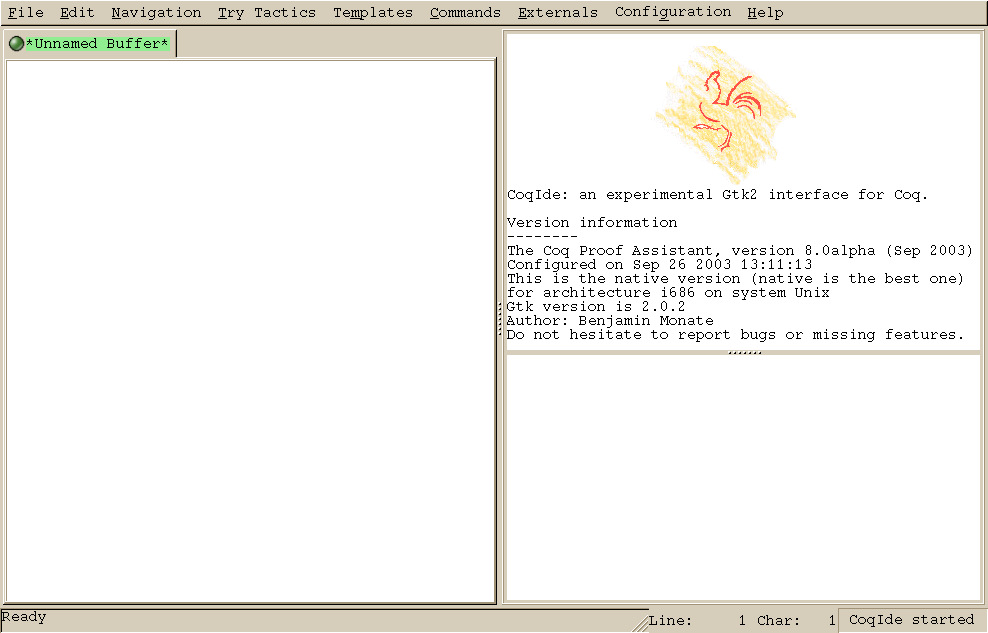
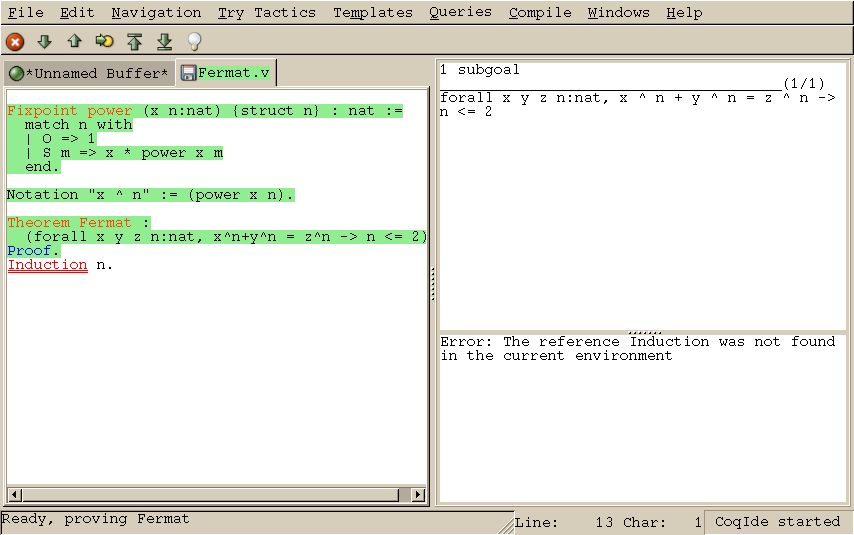
coqide
git-svn-id: svn://scm.gforge.inria.fr/svn/coq/trunk@8377 85f007b7-540e-0410-9357-904b9bb8a0f7

Changed region(s): [[0.0, 0.0, 1.0, 1.0], [0.9133, 0.1495, 0.9438, 0.1794], [0.6089, 0.6579, 0.6393, 0.6879]]

diff --git a/doc/RefMan-ide.tex b/doc/RefMan-ide.tex
@@ -27,59 +27,86 @@ obviously no meaning for \coqide{} being ignored.
 \label{fig:coqide}
 \end{figure}
 
-\coqide{} main screen is shown on Figure~\ref{fig:coqide}.  (Attention
-il manque la toolbar sur cet ecran car je l'ai enleve par defaut) At
-the top is a menu bar, the left window is displaying the various
-buffers, the upper right window is the ``goal window'', where goals to
-prove are displayed. The lower right window is the ``message window'',
+A sample \coqide{} main screen, while navigating into a file
+\verb|Fermat.v|, is shown on Figure~\ref{fig:coqide}.  At
+the top is a menu bar, and a tool bar below it. The large window on
+the left is displaying the various \emph{script buffers}. The upper right
+window is the \emph{goal window}, where goals to 
+prove are displayed. The lower right window is the \emph{message window},
 where various messages resulting from commands are displayed. At the
 bottom is the status bar.
 
-\section{The \texttt{File} menu}
+\section{Managing files and buffers}
 
-Open/Create
+In the script window, you may open arbitrarily many buffers to
+edit. The \emph{File} menu allows you to open files or create some,
+save them, print or export them into various formats. Among all these
+buffers, there is always one which is the current \emph{running
+  buffer}, whose name is displayed on a green background, which is the
+one where Coq commands are currently executed. 
 
-Save
+\section{Interactive navigation into \Coq{} scripts}
 
-Save as
+The running buffer is the one where navigation takes place. The
+toolbar proposes five basic commands for this. The first one,
+represented by a down arrow icon, is for going forward executing one
+command. If that command is successful, the part of the script that
+has been executed is displayed on a green background. If that command
+fails, the error message is displayed in the message window, and the
+location of the error is emphasized by a red underline.
 
-Save all
+On Figure~\ref{fig:coqide}, the running buffer is \verb|Fermat.v|, all
+commands until the \verb|Theorem| have been already executed, and the
+user tried to go forward executing \verb|Induction n|. That command
+failed because no such tactic exist (you remember that tactics in V8.0
+are lowercase, right ?), and the wrong word is underlined.
 
-Revert All Buffers
+Notice that the green part of the running buffer is not editable. If
+you ever want to modify something you have to go backward using the up
+arrow tool, or even better, put the cursor where you want to go back
+and use the \textsf{goto} button. Unlike with \verb|coqtop|, you
+should never use \verb|Undo| to go backward.
 
-Close Buffer
+Two additional tool buttons exist, one to go directly to the end and
+one to go back to the beginning. If you try to go to the end, or in
+general to run several commands using the \textsf{goto} button, the
+  execution will stop whenever an error is found.
 
-Print
+If you ever try to execute a long-running command, such as an
+\verb|intuition eauto with *|, and would like to abort it before its
+end, you may use the interrupt button, the red cross-like.
+ 
+Finally, notice that these navigation buttons are also available in
+the menu, where their keyboard shortcuts are given.
 
-Export to
+\section{Try tactics automatically}
 
-Rehighlight
+The menu \texttt{Try Tactics} provides some features for automatically
+trying to solve the current goal using simple tactics. If such a
+tactics succeeds in solving the goal, then its text is automatically
+inserted into the script. There is finally a combination of these
+tactics, called the \emph{proof wizard} which will try each of them in
+turn. This wizard is also available as a tool button, with a light
+bulb shape.  The set of tactics tried by the wizard is customizable in
+the preferences.
 
-Quit
+\section{Vernacular commands, templates}
 
-\section{The \texttt{Edit} menu}
+The \texttt{Templates} menu allows to use shortcuts to insert
+vernacular commands. This is a nice menu to use if you are not sure of
+the spelling of the command you want.
 
+Moreover, this menu offers some \emph{templates} which will automatic
+insert a complex command like Fixpoint with a convenient shape for its
+arguments. 
 
-\section{The \texttt{Navigation} menu}
+\section{Queries}
 
-Remplacer forward to et backward to par goto ?
-idem pour la toolbar
+\section{Compilation}
 
-\section{The \texttt{Try Tactics} menu}
+\section{Preferences}
 
-Is it useful ?
-
-\section{The \texttt{Templates} menu}
-
-Need update to V8 syntax
-
-\section{The \texttt{Commands} menu}
-
-\section{The \texttt{Externals} menu}
-
-\section{The \texttt{Configuration} menu}
-
-\section{The \texttt{Help} menu}
+auto save, auto revert, delays
 
 
 % $Id$ 

diff --git a/doc/RefMan-modr.tex b/doc/RefMan-modr.tex
@@ -404,14 +404,14 @@ section~\ref{delta}
 \item [ACC-INDP]
 \inference{%
   \frac{
-    \WT{E}{}{p:\sig{\Spec_1;\dots;\Spec_n;\Indp{}{\Gamma_P}{\Gamma_C}{\Gamma_I}{p'};\dots}}
+    \WT{E}{}{p}{\sig{\Spec_1;\dots;\Spec_n;\Indp{}{\Gamma_P}{\Gamma_C}{\Gamma_I}{p'};\dots}}
   }{
     \WTRED{E}{}{p.I_i}{\triangleright_\delta}{p'.I_i}
   }
 }
 \inference{%
   \frac{
-    \WT{E}{}{p:\sig{\Spec_1;\dots;\Spec_n;\Indp{}{\Gamma_P}{\Gamma_C}{\Gamma_I}{p'};\dots}}
+    \WT{E}{}{p}{\sig{\Spec_1;\dots;\Spec_n;\Indp{}{\Gamma_P}{\Gamma_C}{\Gamma_I}{p'};\dots}}
   }{
     \WTRED{E}{}{p.c_i}{\triangleright_\delta}{p'.c_i}
   }
